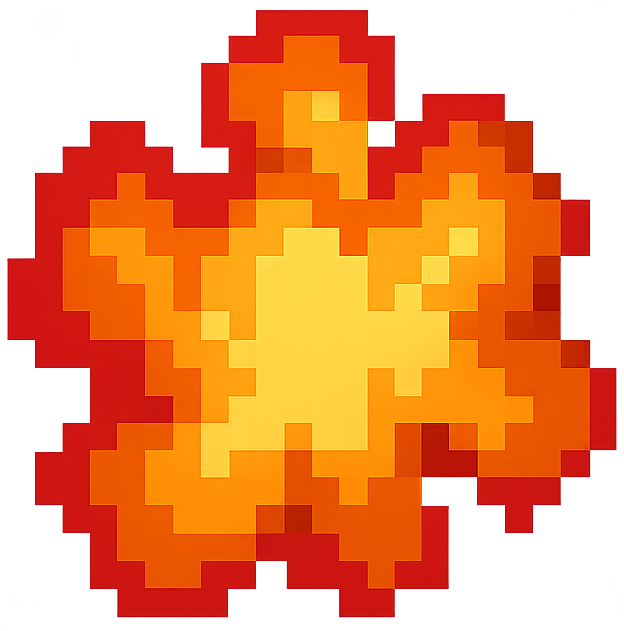
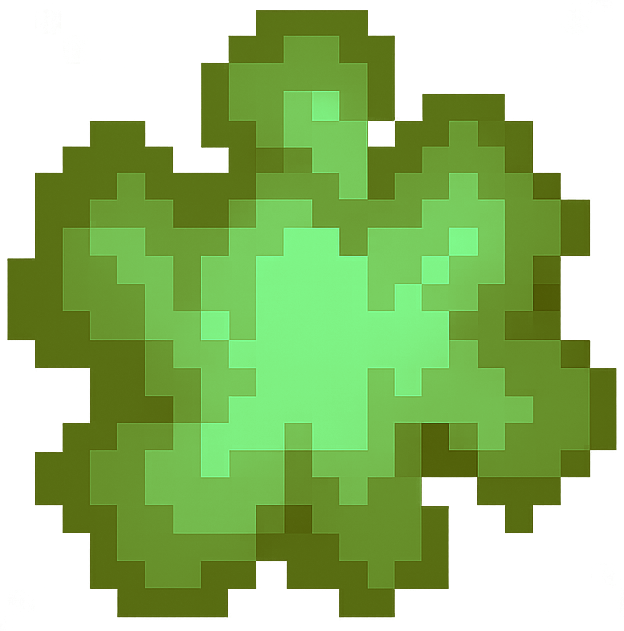
-tema değiştirildi

diff --git a/game.js b/game.js
@@ -8,7 +8,7 @@ class StartScene extends Phaser.Scene {
 
 
     preload() {
-        this.load.image('background', 'assets/background.png');
+        this.load.image('background', 'assets/wizard-castle.png');
         this.load.image('start-button', 'assets/ui/start_button.png');
         this.load.image('game-title', 'assets/ui/title.png');
         this.load.image('sound-on', 'assets/ui/sound_on.png');    // Ses açık ikonu
@@ -135,10 +135,10 @@ class GameScene extends Phaser.Scene {
 
     preload() {
         this.load.image('item', 'assets/coin.png');
-        this.load.image('bomb', 'assets/bombCopy.png');
-        this.load.image('arrow', 'assets/arrow.png');
-        this.load.image('player', 'assets/player.png');
-        this.load.image('background', 'assets/background.png');
+        this.load.image('bomb', 'assets/poison.png');
+        this.load.image('arrow', 'assets/fireball.png');
+        this.load.image('player', 'assets/wizard.png');
+        this.load.image('background', 'assets/wizard-castle.png');
         this.load.image('explosion', 'assets/explosion.png');
 
         this.load.image('sound-on', 'assets/ui/sound_on.png');    // Ses açık ikonu
@@ -186,11 +186,19 @@ class GameScene extends Phaser.Scene {
         background.setDisplaySize(config.width, config.height); // Arka planın boyutunu ayarla
 
         //Player oluşturma
-        let player = this.physics.add.sprite(250, config.height / 2 - 25, 'player');
+        let player = this.physics.add.sprite(150, config.height / 2, 'player');
         player.scale = 0.15; // Oyuncu boyutunu ayarla
         player.setCollideWorldBounds(true); // Oyuncu dünya sınırlarına çarptığında duracak
         player.body.setAllowGravity(false); // Oyuncunun yerçekimi etkisi
         player.body.setImmovable(true); // Oyuncu hareket edemeyecek
+        this.tweens.add({
+            targets: player,
+            y: player.y - 10,        // 10px yukarı çık
+            duration: 1500,
+            ease: 'Sine.easeInOut', // yumuşak geçiş
+            yoyo: true,
+            repeat: -1              // sonsuz tekrar
+        });
 
         //gruplar
         this.arrows = this.physics.add.group();
@@ -241,7 +249,7 @@ class GameScene extends Phaser.Scene {
                 let velocityX = dragOffsetX * this.power;
                 let velocityY = dragOffsetY * this.power;
 
-                this.drawTrajectory(290, this.game.config.height / 2 - 45, velocityX, velocityY);
+                this.drawTrajectory(210, this.game.config.height / 2 - 60, velocityX, velocityY);
             }
         });
 
@@ -306,7 +314,7 @@ class GameScene extends Phaser.Scene {
         this.arrows.children.each((arrow) => {
             let angleRad = Math.atan2(arrow.body.velocity.y, arrow.body.velocity.x);
             let angleDeg = Phaser.Math.RadToDeg(angleRad);
-            arrow.setAngle(angleDeg + 23.5);
+            arrow.setAngle(angleDeg - 90);
             if (arrow.y < -50 || arrow.y > config.height + 50) {
                 arrow.destroy();
                 console.log("arrow destroyed");
@@ -325,8 +333,8 @@ class GameScene extends Phaser.Scene {
         // Güce göre renk hesapla
         let power = Math.sqrt(velocityX ** 2 + velocityY ** 2);
         let color = Phaser.Display.Color.Interpolate.ColorWithColor(
-            new Phaser.Display.Color(255, 255, 0), // sarı
-            new Phaser.Display.Color(255, 0, 0),   // kırmızı
+            new Phaser.Display.Color(181, 80, 156), // açık mor
+            new Phaser.Display.Color(102, 1, 152),   // koyu mor
             1000,
             Math.min(power, 1000)
         );
@@ -355,7 +363,7 @@ class GameScene extends Phaser.Scene {
     }
 
     shootArrow(x, y) {
-        let arrow = this.arrows.create(290, config.height / 2 - 45, 'arrow');
+        let arrow = this.arrows.create(210, this.game.config.height / 2 - 60, 'arrow');
         arrow.scale = 0.05;
         arrow.setVelocity(x, y);
     }
@@ -411,7 +419,7 @@ class GameScene extends Phaser.Scene {
         }
         let bomb = this.bombs.create(x, y, 'bomb');
         bomb.from = locY; // Bombanın konumunu kaydet
-        bomb.scale = 0.12; // Bomba boyutunu ayarla
+        bomb.setScale(0.07); // Bomba boyutunu ayarla
         bomb.body.setAllowGravity(false); // Bombaların yerçekimi etkisi olmasın
         bomb.setVelocityY(velocity);
     }
@@ -431,7 +439,7 @@ class GameScene extends Phaser.Scene {
         this.hearts -= 1; // Canı azalt
         this.heartsText.setText('Can: ' + this.hearts); // Can yazısını güncelle
         let explosion = this.add.image(bomb.x, bomb.y, 'explosion');
-        explosion.setScale(0.5); // İstersen ayarla
+        explosion.setScale(0.1); // İstersen ayarla
         explosion.setDepth(10); // Önde gözükmesi için
         this.explosionSound.play(); // Patlama sesini çal
 
@@ -448,6 +456,29 @@ class GameScene extends Phaser.Scene {
         });
         if (this.hearts <= 0) {
             this.physics.pause() // Oyun bitti sahnesine geç
+        }
+    }
+    
+    setDifficulty(level) {
+        switch (level) {
+            case 'easy':
+                this.itemSpawnInterval = 1500; // 1.5 saniyede bir item spawn et
+                this.bombSpawnInterval = 3000; // 3 saniyede bir bomba spawn et
+                break;
+            case 'medium':
+                this.itemSpawnInterval = 1000; // 1 saniyede bir item spawn et
+                this.bombSpawnInterval = 2000; // 2 saniyede bir bomba spawn et
+                break;
+            case 'hard':
+                this.itemSpawnInterval = 500; // 0.5 saniyede bir item spawn et
+                this.bombSpawnInterval = 1000; // 1 saniyede bir bomba spawn et
+                break;
+            case 'very-hard':
+                this.itemSpawnInterval = 300; // 0.3 saniyede bir item spawn et
+                this.bombSpawnInterval = 500; // 0.5 saniyede bir bomba spawn et
+                break;
+            default:
+                console.error('Geçersiz zorluk seviyesi: ' + level);
         }
     }
 }
@@ -510,3 +541,8 @@ const config = {
 };
 
 const game = new Phaser.Game(config);
+
+//TODO: game over ve win sahnelerini ekle
+//TODO: sesleri ekle
+//TODO: zorluk ekle
+//TODO: ui elementleri ekle
